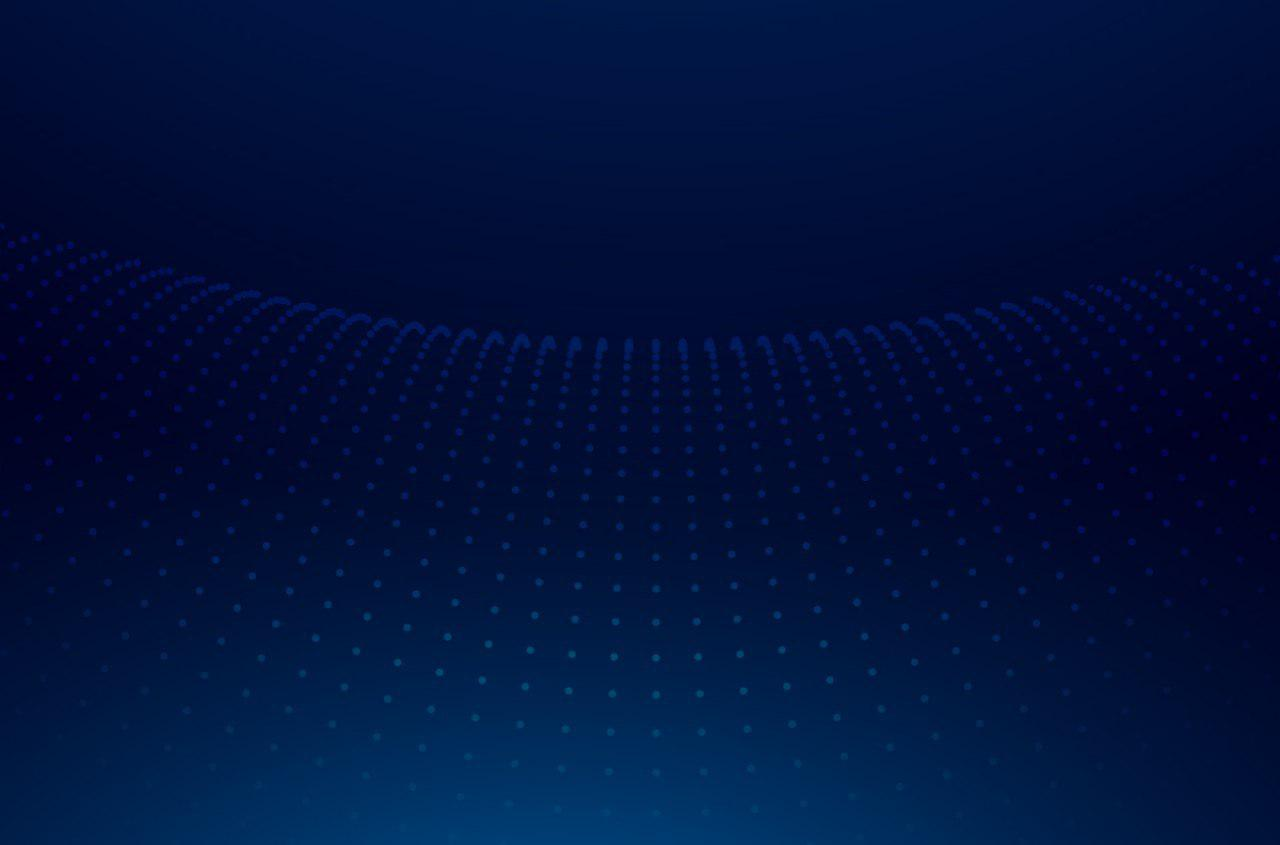
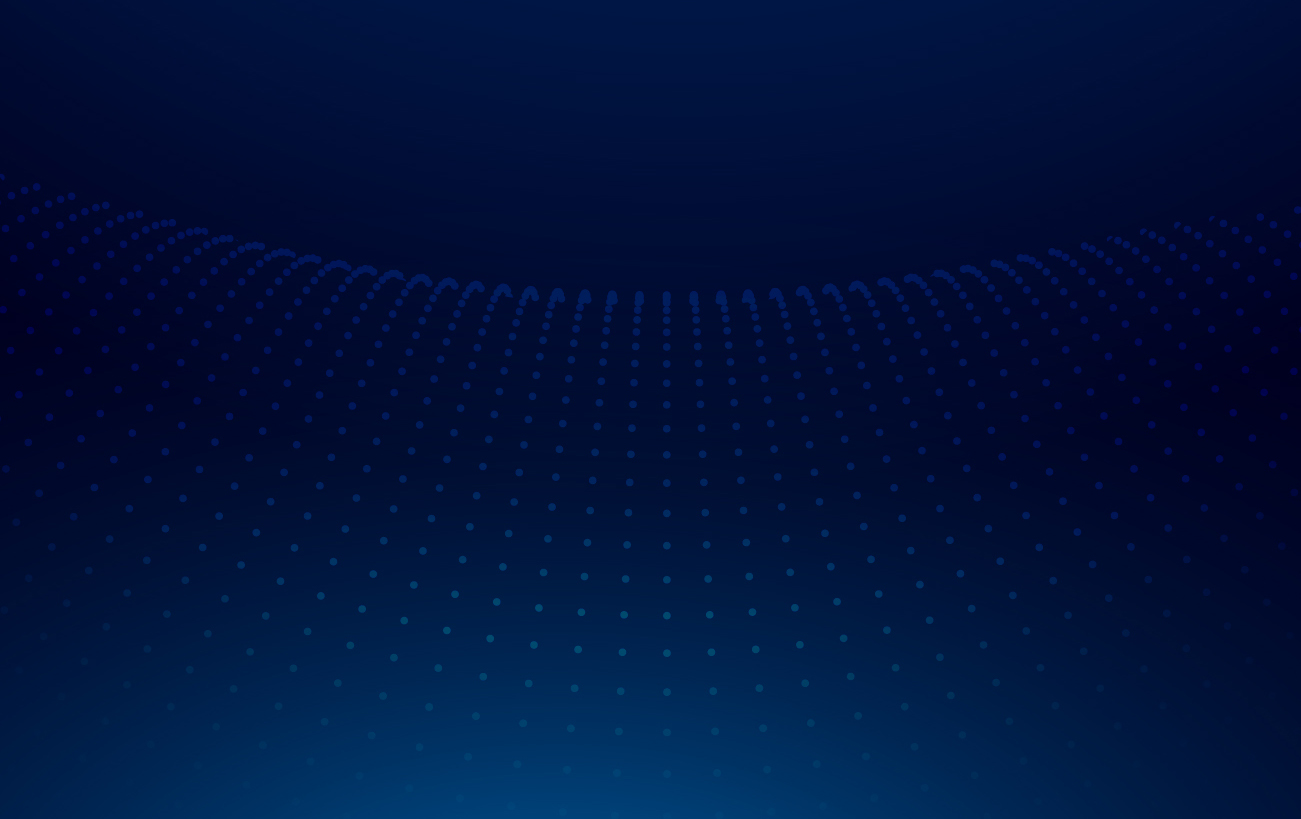
Changed wave backgrounds

diff --git a/src/sass/_mixins.scss b/src/sass/_mixins.scss
@@ -46,7 +46,7 @@
 @mixin dottedBg {
   background-repeat: no-repeat;
   background-size: cover;
-  background-image: url('../img/bg.png');
+  background-image: url('../img/waves_new.jpg');
   background-position: center;
   background-color: $bg-blueish;
 }
